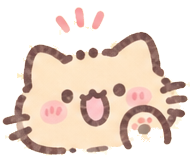
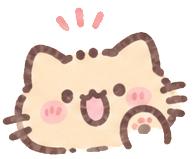
단추 그림 바깥에 붙은 크림색 부스러기를 지운다
단추는 외곽선을 점선처럼 끊어 그렸고 몸 색이 종이와 비슷해, 외곽선
바깥에 남은 종이가 몸통과 같은 색으로 살아남는다. 흰 배경에서는 묻히지만
밤하늘 위에서는 왼쪽 가장자리와 귀 옆, 느낌표 사이에 짧은 선으로 뜬다.

옅은 픽셀끼리 이어진 덩어리를 세어, 몸통(8983픽셀)과 떨어진 작은
덩어리 중 바깥 투명한 자리에 닿는 것만 지운다. 입 안 하이라이트처럼
그림 안에 갇힌 덩어리는 건드리지 않는다. 이 규칙은 Art 의 flecks 옵션으로
단추에만 걸어, 다른 고양이 열두 장은 한 픽셀도 달라지지 않는다.

diff --git a/tool/cutout_artwork.py b/tool/cutout_artwork.py
@@ -78,11 +78,16 @@ class Art:
     off    여백 색에서 이만큼 벗어나면 그림으로 보고 멈춘다.
     step   이웃으로 번질 때 허용하는 색 차이. 종이 그라데이션은 넘고
            그림 경계는 못 넘는 값.
+    flecks 몸통과 떨어져 바깥에 붙은 옅은 조각을 지운다. 외곽선을 점선처럼
+           끊어 그린 아이는 몸 색이 종이와 비슷해, 외곽선 바깥에 남은 종이가
+           몸과 같은 색으로 남는다. 이 값(픽셀 수)보다 작은 옅은 덩어리 중
+           바깥 투명한 자리에 닿는 것만 지운다. 입 안 하이라이트처럼 그림
+           안에 갇힌 덩어리와, 몸통 하나로 이어진 큰 덩어리는 건드리지 않는다.
     """
 
     def __init__(self, box, sheet=1, grow="tlr", erase=(), wall=(), mirror=(),
                  bleach=(), keep=(), fill=(), blend=0, speck=16, page=250, dark=165.0, bridge=0,
-                 off=16.0, step=20.0):
+                 off=16.0, step=20.0, flecks=0):
         self.box = box
         self.wall = wall
         self.mirror = mirror
@@ -99,6 +104,7 @@ class Art:
         self.bridge = bridge
         self.off = off
         self.step = step
+        self.flecks = flecks
 
 
 ARTS = {
@@ -166,7 +172,7 @@ ARTS = {
     # 외곽선을 점선처럼 끊어 그린 아이. 몸 색도 노란 카드와 가까워
     # 틈을 막고 지운 뒤 되돌린다.
     "danchu": Art((1302, 574, 1495, 733), sheet=2, bridge=3, off=8.0,
-                  step=9.0,
+                  step=9.0, flecks=120,
                   # 오른쪽 위 모서리 장식과, 왼쪽 수염 위로 잘려 들어온
                   # 옆 칸 하트 끝.
                   erase=((1450, 574, 1495, 604), (1300, 654, 1314, 684))),
@@ -381,6 +387,8 @@ def cut(name, art):
                 j, k = d * 3, sidx * 3
                 for c in range(3):
                     raw[j + c] = round(raw[j + c] * (1 - t) + raw[k + c] * t)
+    if art.flecks:
+        drop_flecks(alpha, lum, w, h, art.flecks)
     crop_png(name, art, night_edges(raw, alpha, w, h), alpha, w, cl, ct,
              NIGHT)
     return crop_png(name, art, raw, alpha, w, cl, ct)
@@ -416,6 +424,54 @@ def night_edges(rgb, alpha, w, h):
             k, s = i * 3, near[i] * 3
             out[k:k + 3] = rgb[s:s + 3]
     return out
+
+
+def drop_flecks(alpha, lum, w, h, most, pale=215, skirt=200):
+    """몸통과 떨어져 바깥에 붙은 옅은 조각을 지운다.
+
+    옅은 픽셀(밝기 [pale] 초과)끼리 이어진 덩어리를 세어, [most] 보다 작고
+    투명한 자리에 닿는 것만 지운다. 지운 자리 바로 옆의 밝은 가장자리
+    ([skirt] 초과)도 함께 걷어, 흐릿한 테가 남지 않게 한다.
+    """
+    light = [alpha[i] > 40 and lum[i] > pale for i in range(w * h)]
+    seen = bytearray(w * h)
+    gone = []
+    for start in range(w * h):
+        if not light[start] or seen[start]:
+            continue
+        seen[start] = 1
+        stack, comp = [start], []
+        while stack:
+            i = stack.pop()
+            comp.append(i)
+            x, y = i % w, i // w
+            for dy in (-1, 0, 1):
+                for dx in (-1, 0, 1):
+                    nx, ny = x + dx, y + dy
+                    if 0 <= nx < w and 0 <= ny < h:
+                        j = ny * w + nx
+                        if light[j] and not seen[j]:
+                            seen[j] = 1
+                            stack.append(j)
+        if len(comp) >= most:
+            continue
+        outside = any(
+            not (0 <= i % w + dx < w and 0 <= i // w + dy < h)
+            or alpha[(i // w + dy) * w + i % w + dx] <= 40
+            for i in comp for dy in (-1, 0, 1) for dx in (-1, 0, 1))
+        if outside:
+            gone += comp
+    for i in gone:
+        alpha[i] = 0
+    for i in gone:
+        x, y = i % w, i // w
+        for dy in (-1, 0, 1):
+            for dx in (-1, 0, 1):
+                nx, ny = x + dx, y + dy
+                if 0 <= nx < w and 0 <= ny < h:
+                    j = ny * w + nx
+                    if alpha[j] and lum[j] > skirt and not light[j]:
+                        alpha[j] = 0
 
 
 def cells(x1, y1, x2, y2, cl, ct, w, h):
